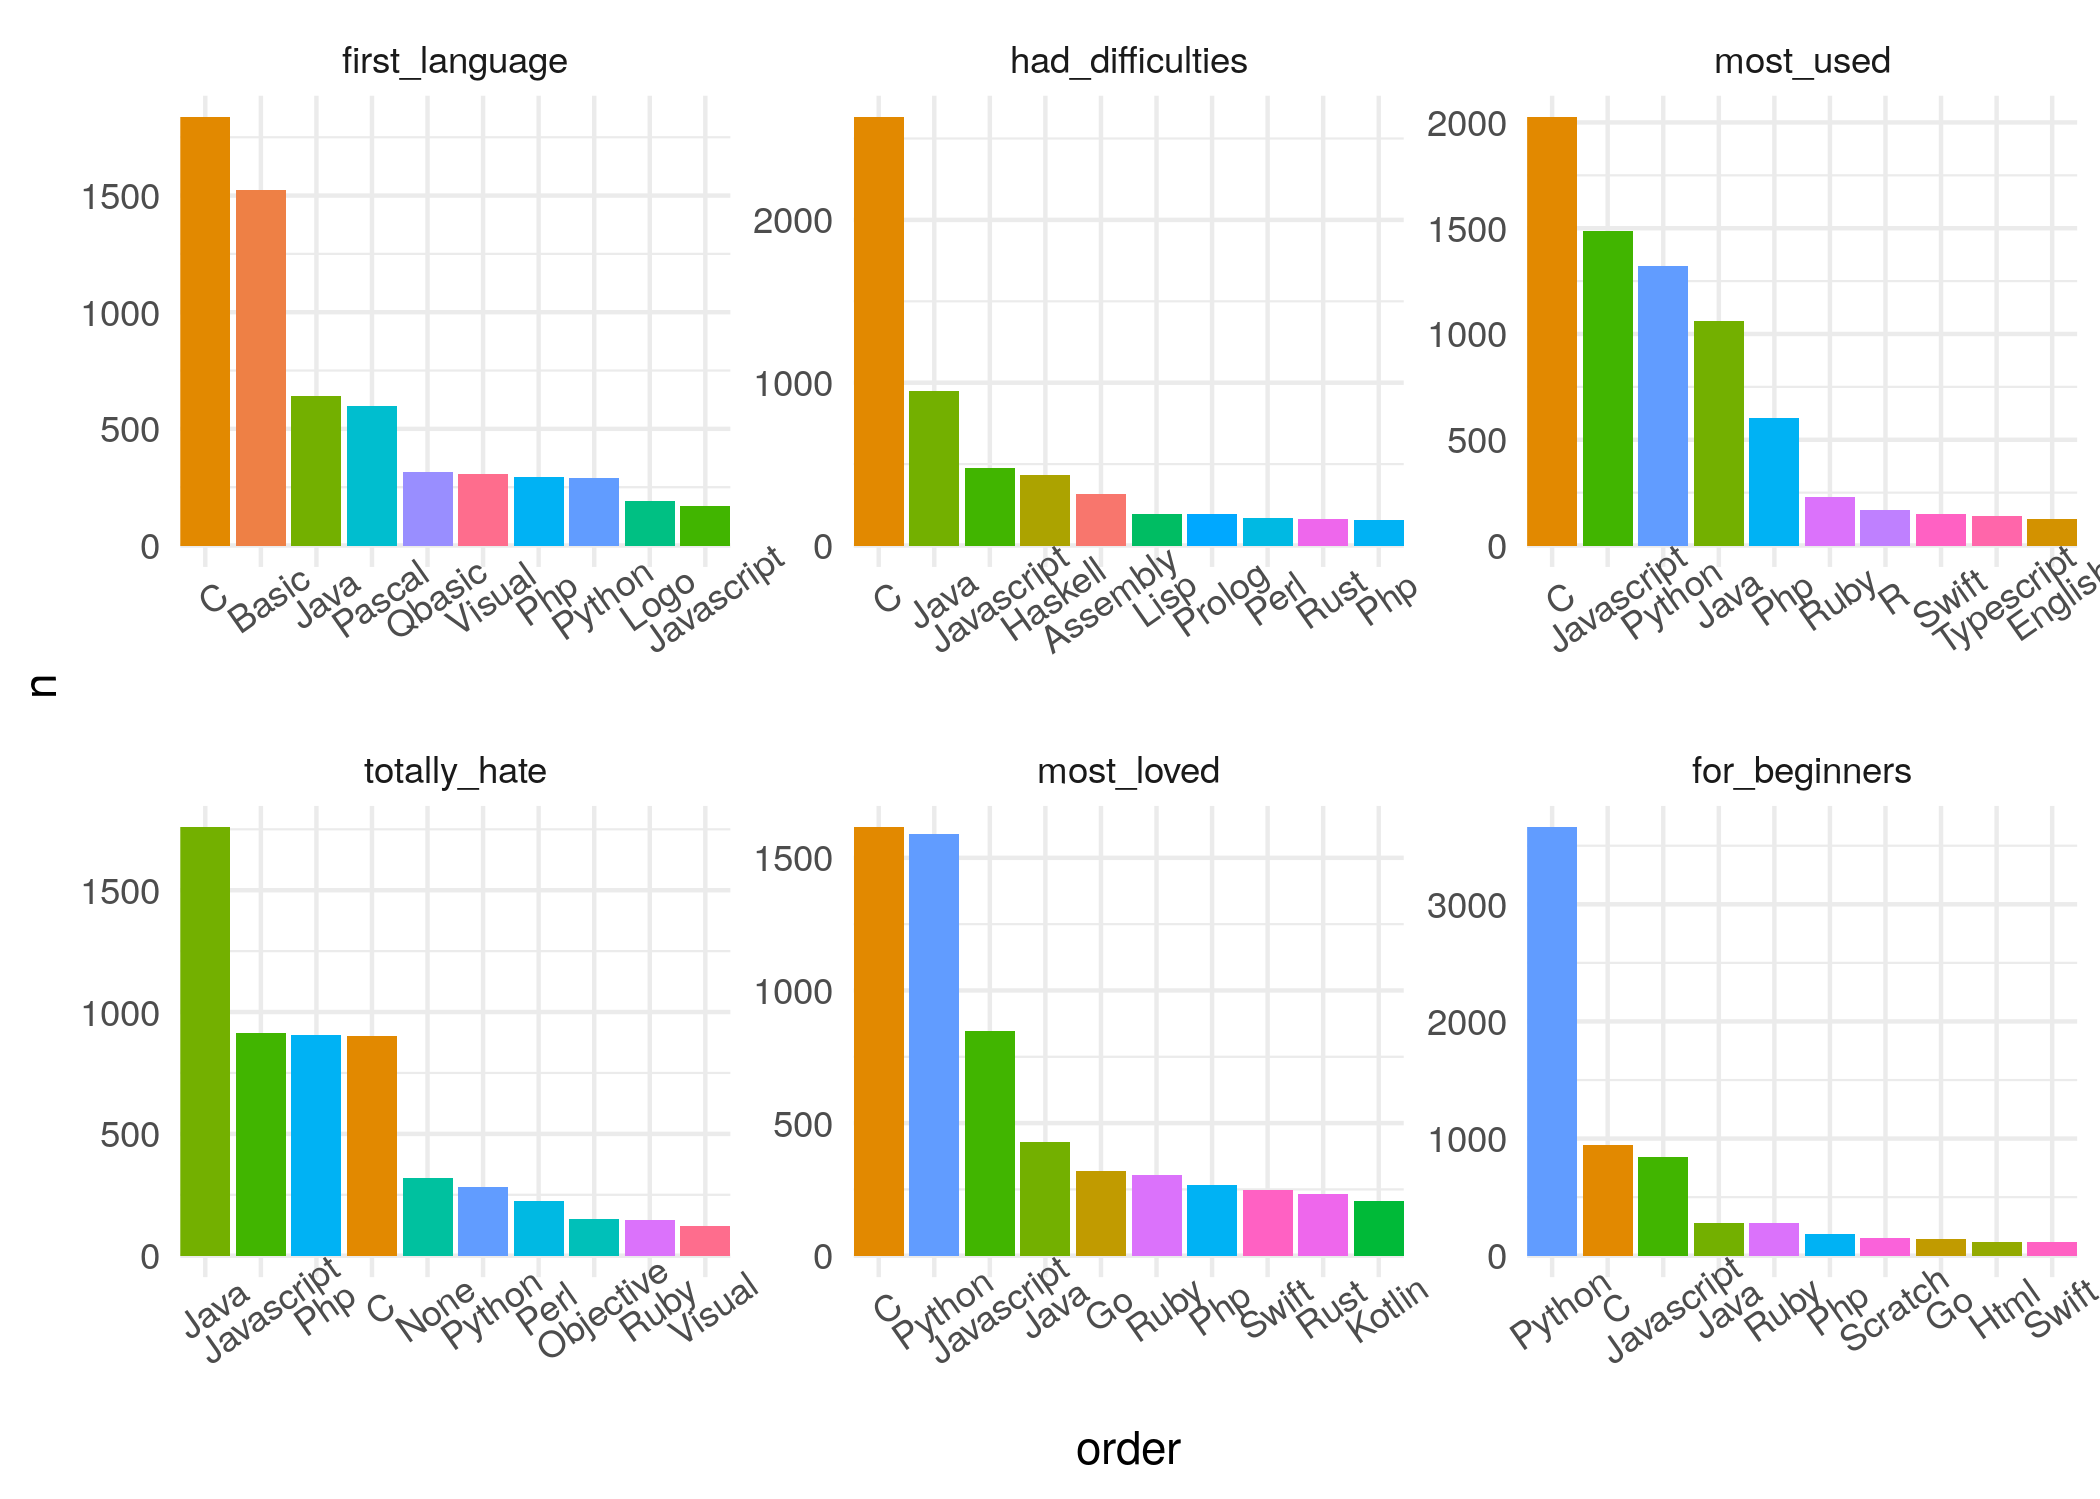
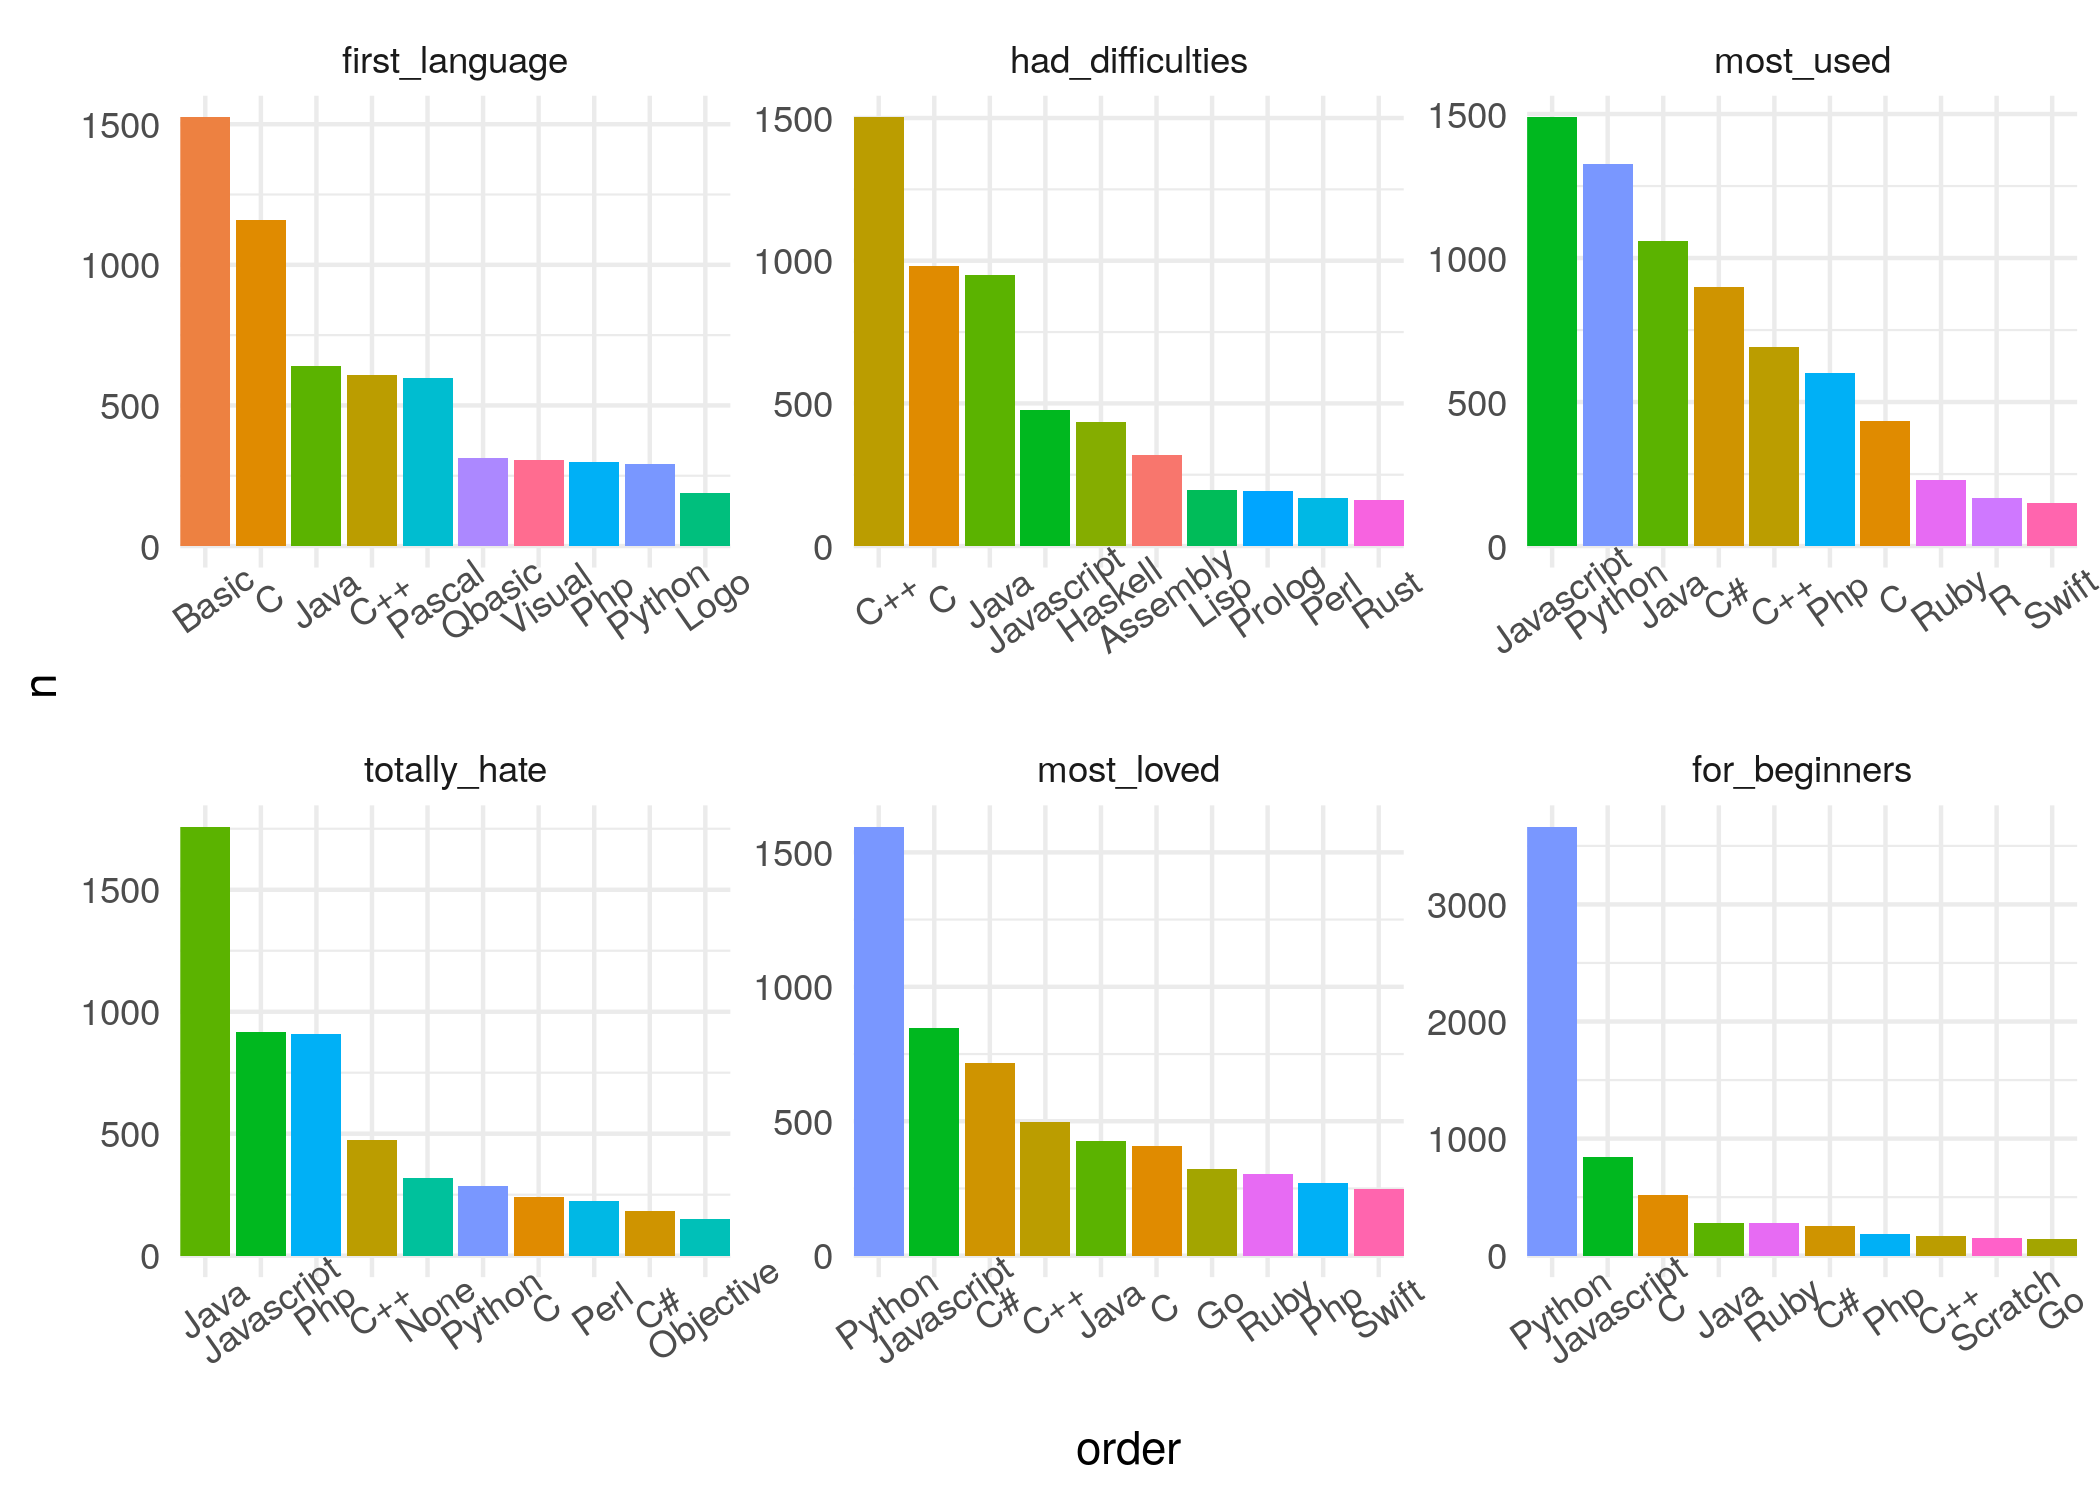
corrigo bug

diff --git a/README.md b/README.md
@@ -6,12 +6,12 @@
 ``` r
 library(rtweet)
 library(tidyverse)
-#> ── Attaching packages ─────────────────────────────────────────────────────────────────────────────────────────────── tidyverse 1.2.1 ──
+#> ── Attaching packages ────────────────────────────────────────────────────────────────────────────────────────────── tidyverse 1.2.1 ──
 #> ✔ ggplot2 3.2.1     ✔ purrr   0.3.2
 #> ✔ tibble  2.1.3     ✔ dplyr   0.8.3
 #> ✔ tidyr   1.0.0     ✔ stringr 1.4.0
 #> ✔ readr   1.3.1     ✔ forcats 0.4.0
-#> ── Conflicts ────────────────────────────────────────────────────────────────────────────────────────────────── tidyverse_conflicts() ──
+#> ── Conflicts ───────────────────────────────────────────────────────────────────────────────────────────────── tidyverse_conflicts() ──
 #> ✖ dplyr::filter()  masks stats::filter()
 #> ✖ purrr::flatten() masks rtweet::flatten()
 #> ✖ dplyr::lag()     masks stats::lag()
@@ -48,12 +48,12 @@ answers <- rt2 %>%
          most_loved = trimws(str_extract(most_loved,'(?<=5. Most loved:).*'),which = 'both'),
          for_beginners = trimws(str_extract(for_beginners,'(?<=6. For beginners:).*'),which = 'both'),
          ) %>% 
-  mutate(first_language = str_extract(first_language,'[[:alnum:]]*'),
-         had_difficulties = str_extract(had_difficulties,'[[:alnum:]]*'),
-         most_used = str_extract(most_used,'[[:alnum:]]*'),
-         totally_hate = str_extract(totally_hate,'[[:alnum:]]*'),
-         most_loved = str_extract(most_loved,'[[:alnum:]]*'),
-         for_beginners = str_extract(for_beginners,'[[:alnum:]]*')) %>% 
+  mutate(first_language    = str_extract(first_language,'[[[:alpha:]]#+]*'),
+         had_difficulties  = str_extract(had_difficulties,'[[[:alpha:]]#+]*'),
+         most_used         = str_extract(most_used,'[[[:alpha:]]#+]*'),
+         totally_hate      = str_extract(totally_hate,'[[[:alpha:]]#+]*'),
+         most_loved        = str_extract(most_loved,'[[[:alpha:]]#+]*'),
+         for_beginners     = str_extract(for_beginners,'[[[:alpha:]]#+]*')) %>% 
   drop_na() %>% 
   pivot_longer(-status_id,names_to = 'question',values_to = 'answer')
 #> Warning: Expected 6 pieces. Missing pieces filled with `NA` in 1334 rows
